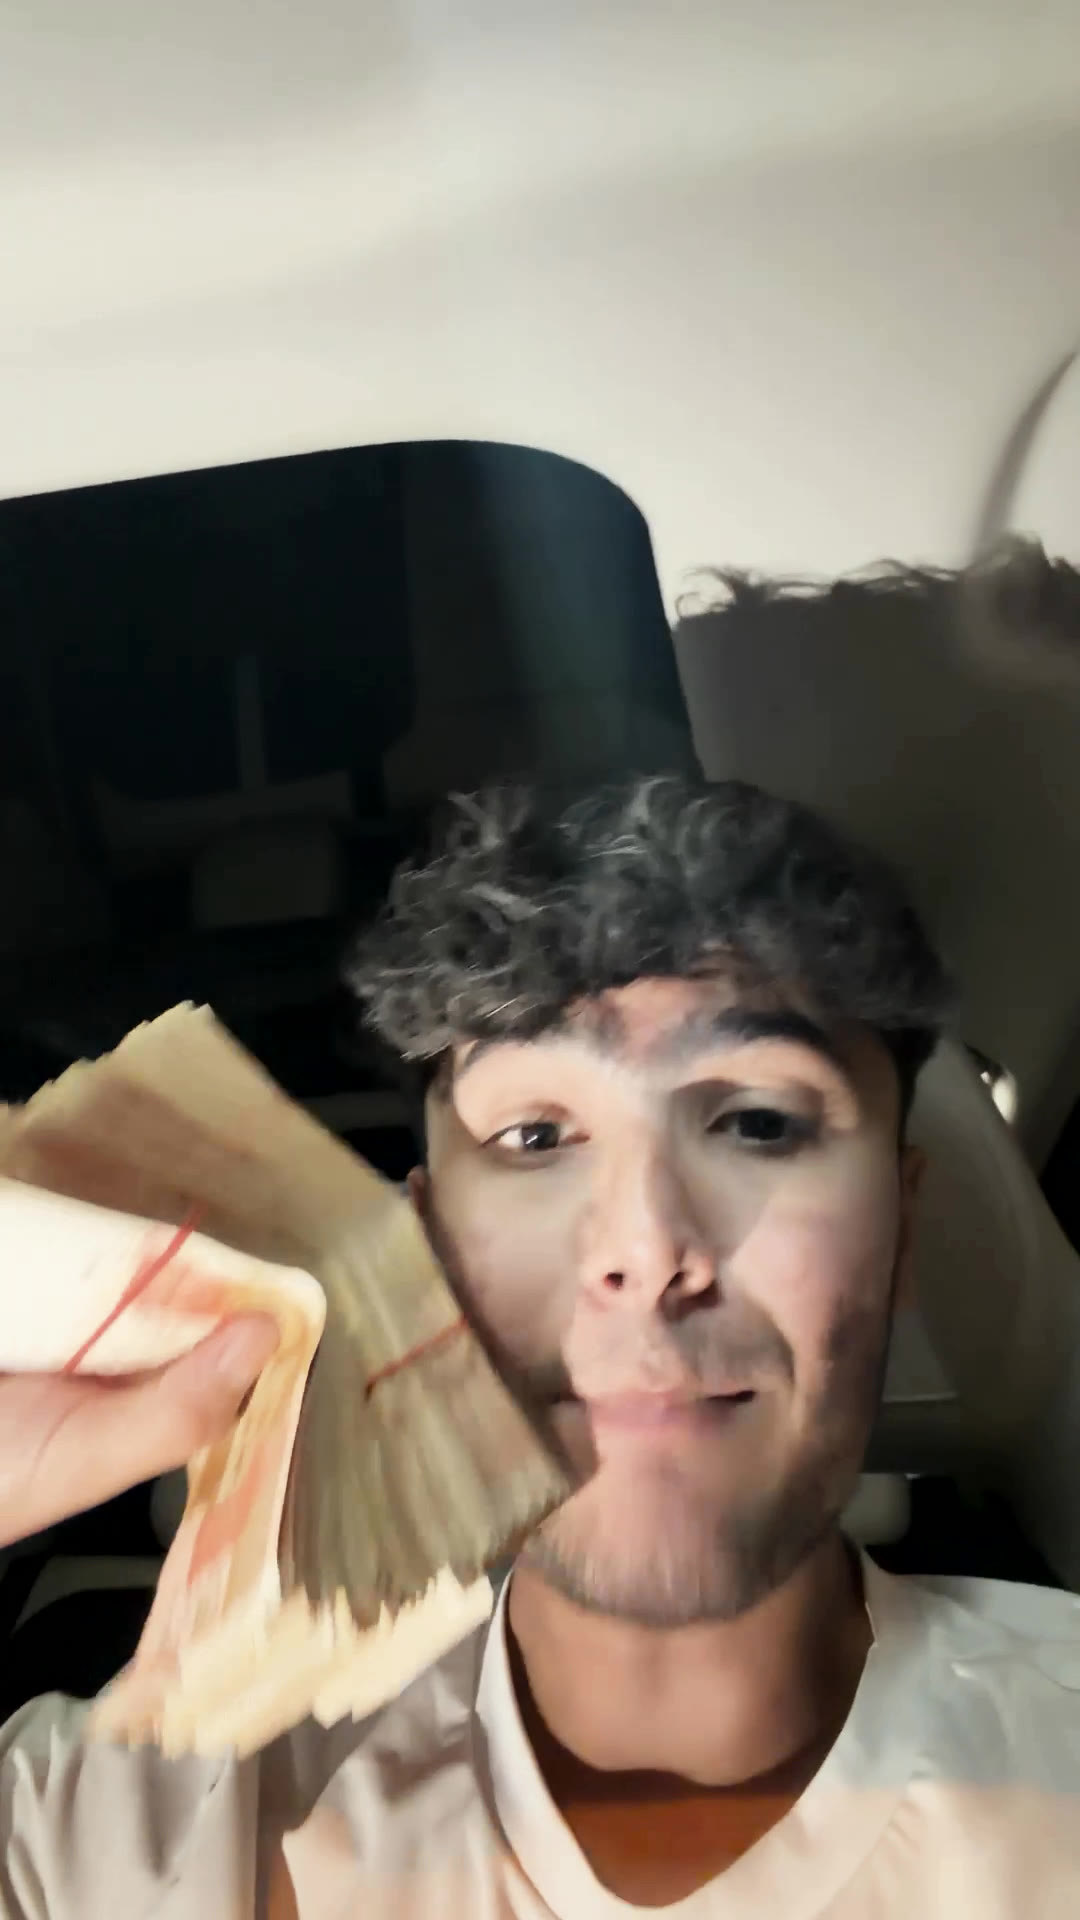
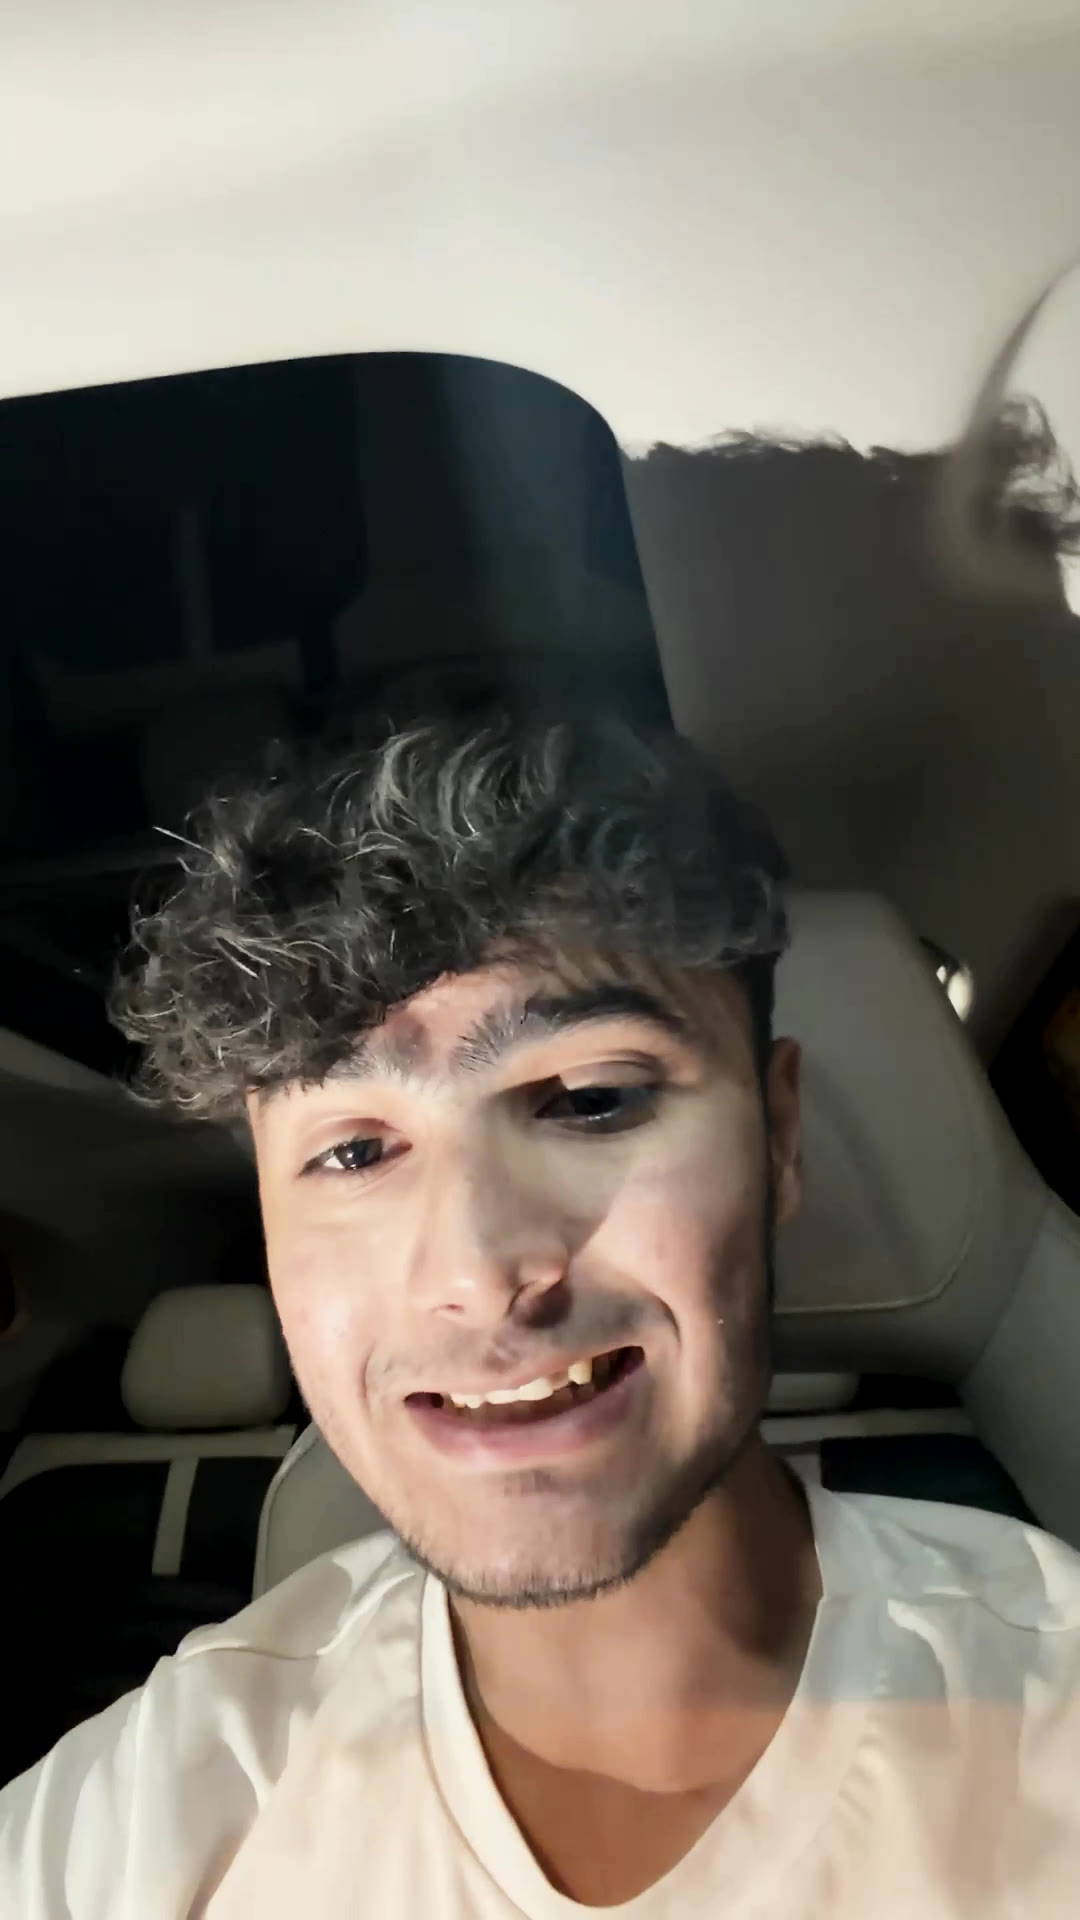
Reel 6 cover: client-picked expression (20.4s)
Claude-Session: https://claude.ai/code/session_01GeKTtfkKXxHrqRi81DhyPh

diff --git a/src/Anfaal6/Cover.tsx b/src/Anfaal6/Cover.tsx
@@ -18,7 +18,7 @@ export const AnfaalReel6Cover: React.FC = () => (
       <Img key={i} src={staticFile("an6/usd_notes.png")} style={{ position: "absolute", left: b.x, top: b.y, width: b.w, transform: `rotate(${b.r}deg)`, borderRadius: 6, boxShadow: "0 20px 40px rgba(0,0,0,.5)", filter: "saturate(.65) brightness(.95)" }} />
     ))}
     {/* focus brackets around the face */}
-    {sq(400, 920)}{sq(930, 920)}{sq(400, 1620)}{sq(930, 1620)}
+    {sq(230, 880)}{sq(800, 880)}{sq(230, 1640)}{sq(800, 1640)}
     {/* headline block */}
     <div style={{ position: "absolute", left: 0, right: 0, top: 255, display: "flex", flexDirection: "column", alignItems: "center", gap: 8 }}>
       <div style={{ padding: "8px 22px", border: "3px solid rgba(255,255,255,.9)", fontFamily: "Inter", fontWeight: 800, fontSize: 34, letterSpacing: 4, color: "#fff", background: "rgba(0,0,0,.35)" }}>JUST 1 TRADE</div>
